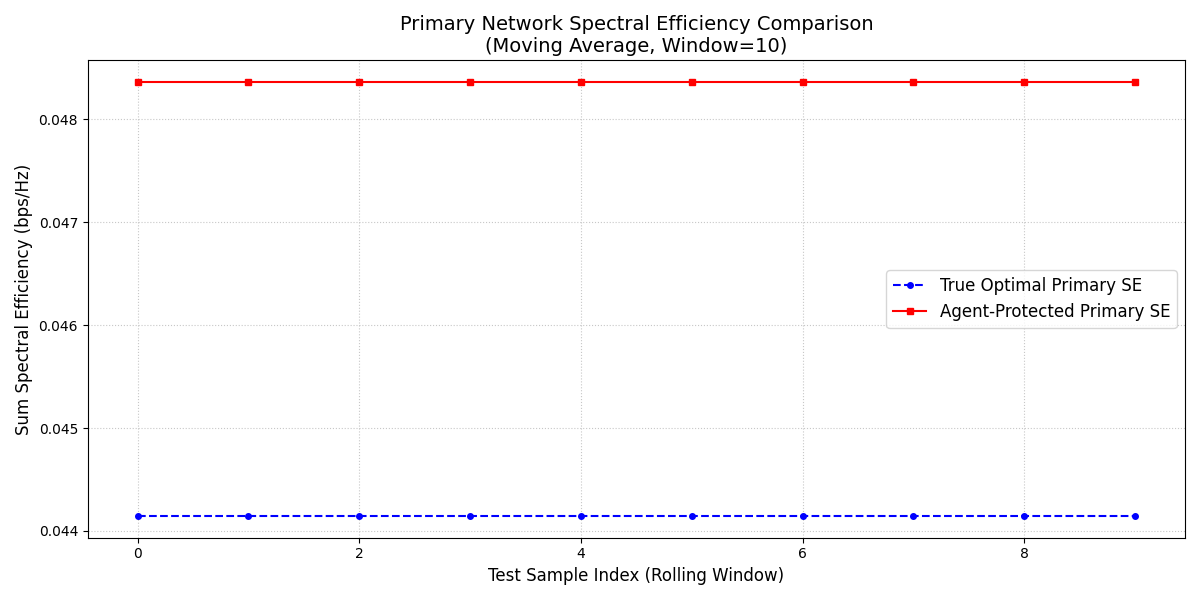
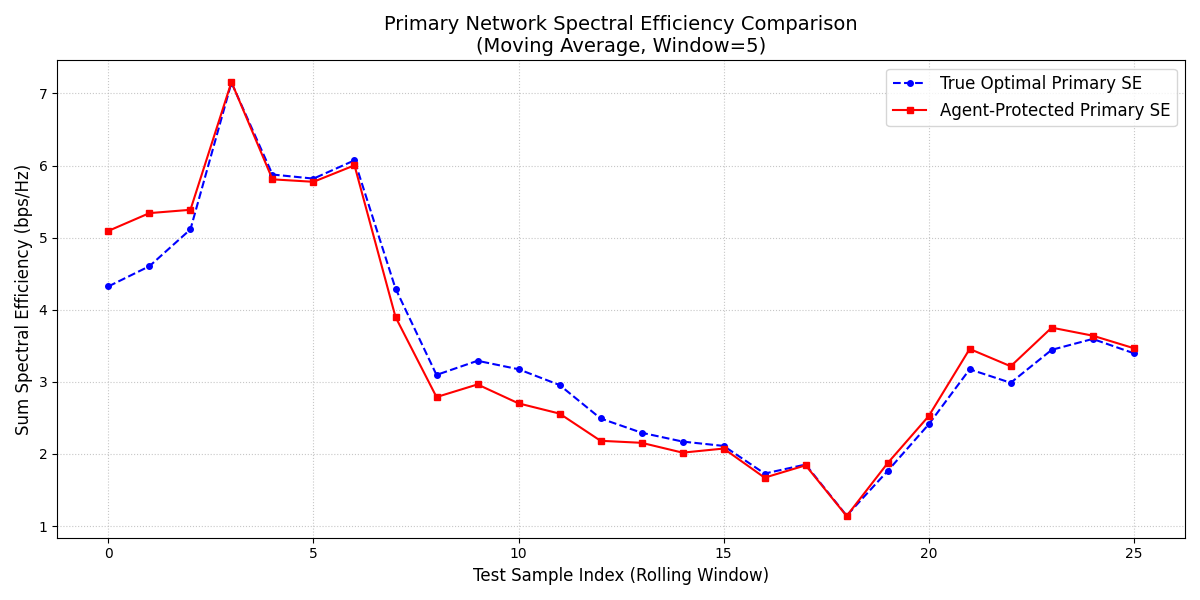
v1.3

diff --git a/5Agents_work_on_power_alloc/realistic_fixedP1.py b/5Agents_work_on_power_alloc/realistic_fixedP1.py
@@ -308,7 +308,7 @@ workflow.add_conditional_edges(
 
 app = workflow.compile()
 
-data = gen_channels(150)
+data = gen_channels(120)
 train = data[:90]
 test = data[90:]
 prompt_secondary_allocation = build_prompt(train)
@@ -336,7 +336,7 @@ def calculate_primary_sum_se(P1_vector, P2_vector, direct_h_primary, cross_h_pri
     return se
 
 print("\nStarting Benchmark over Test Dataset...")
-for i in range(1):
+for i in range(len(test)):
     direct_h_pri = test[i][0] 
     cross_h_pri = test[i][2]  
     true_p1 = test[i][4]      
